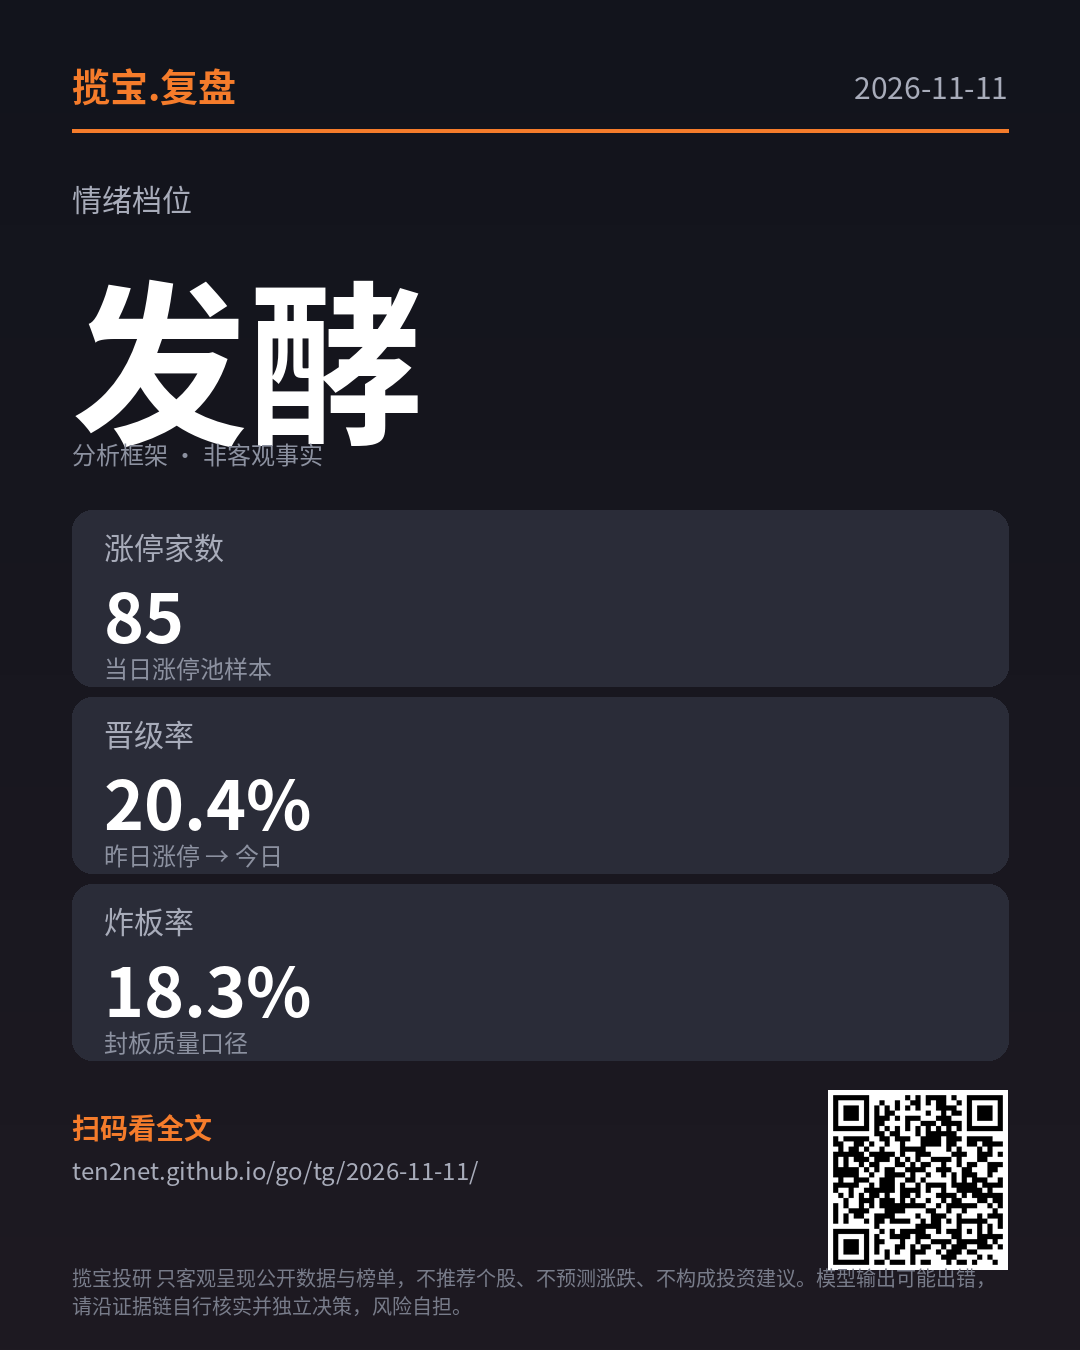
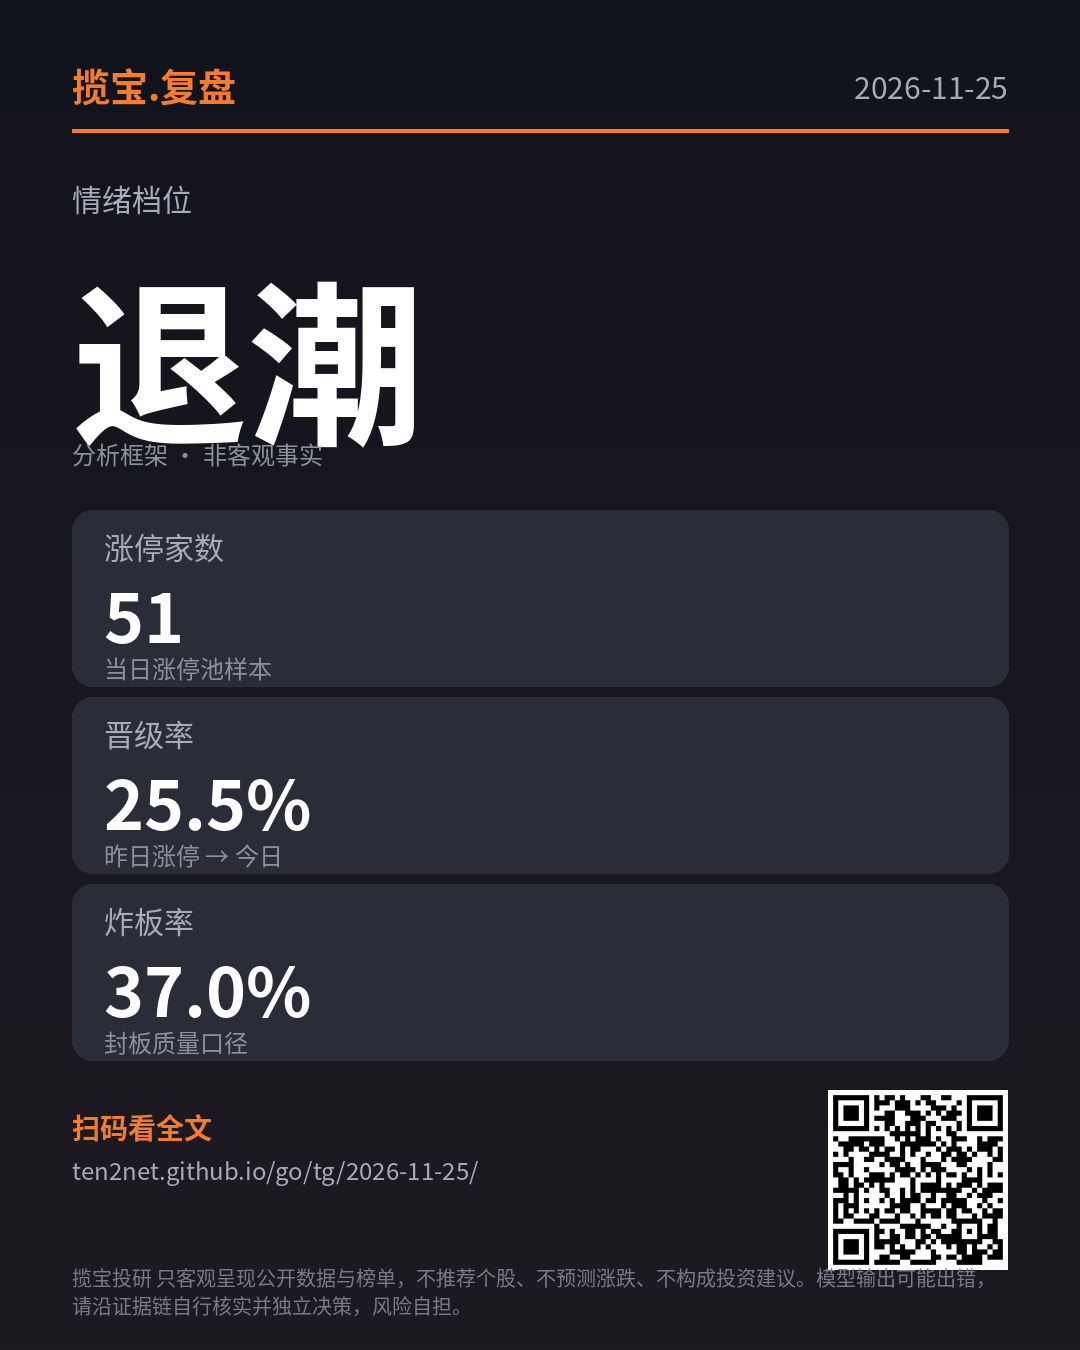
fix(wechat): 明日验证条件中文化并修正段落左对齐
- grounding.py: 生成 focus_md 时用 METRICS 中文 label，不再暴露英文 metric key
- wechat_render.py: 渲染层 _localize_metrics 兜底把历史 focus_md 的英文 key 换中文；
  _verification/_stance_checklist 统一用 METRICS 映射并去掉英文括号；
  S_P/S_LINE 显式 text-align:left 保证微信内左对齐
- 补 2026-11-25 情绪卡片（横版/竖版）并更新 latest
- tests: 更新英文 key 断言，新增历史英文 metric 本地化测试

diff --git a/review_agent/wechat_render.py b/review_agent/wechat_render.py
@@ -39,13 +39,13 @@ S_LEAD_TITLE = "margin:0 0 8px;font-size:17px;font-weight:bold;color:#f0d78c;"
 S_LEAD_SUB = "margin:0;font-size:13px;color:#9aa4b2;line-height:1.6;"
 S_H = ("margin:22px 0 10px;padding-left:10px;font-size:16px;font-weight:bold;color:#1d2129;"
        "border-left:4px solid #c9a227;line-height:1.4;")
-S_P = "margin:0 0 12px;font-size:15px;color:#1d2129;line-height:1.75;"
+S_P = "margin:0 0 12px;font-size:15px;color:#1d2129;line-height:1.75;text-align:left;"
 S_MUTED = "margin:0 0 12px;font-size:13px;color:#86909c;line-height:1.7;"
 S_CARD = "margin:0 0 8px;padding:10px 14px;background:#f7f8fa;border-radius:8px;"
 S_CARD_K = "margin:0;font-size:12px;color:#86909c;"
 S_CARD_V = "margin:4px 0;font-size:19px;font-weight:bold;color:#1d2129;"
 S_CARD_S = "margin:0;font-size:12px;color:#86909c;"
-S_LINE = "margin:0 0 6px;font-size:14px;color:#1d2129;line-height:1.7;"
+S_LINE = "margin:0 0 6px;font-size:14px;color:#1d2129;line-height:1.7;text-align:left;"
 S_GAP = "margin:0 0 12px;font-size:13px;color:#b0b8c4;"
 S_RULE = ("margin:26px 0 10px;border:none;border-top:1px dashed #e5e6eb;")
 # 结尾「阅读原文」醒目引导块：浅橙底 + 左侧橙色粗边，微信白名单内的内联样式
@@ -235,6 +235,24 @@ def _event_lines(payload: dict, limit: int = 10) -> list[str]:
     return lines
 
 
+def _localize_metrics(text: str) -> str:
+    """把正文里写死的英文指标 key 换成中文名（渲染层兜底）。
+
+    历史 focus_md 由早期 grounding 生成，里面是 ``money_effect_median``
+    这类英文 key；这里统一替换成 METRICS 里的中文 label，避免读者看到英文。
+    按 key 长度倒序替换，防止短 key 先命中干扰长 key。
+    """
+    try:
+        from duanxian.verification import METRICS
+        mapping = {m.key: m.label for m in METRICS}
+    except Exception:  # noqa: BLE001  指标映射是增强项，失败不影响发布
+        return text
+    for key in sorted(mapping, key=len, reverse=True):
+        if key in text:
+            text = text.replace(key, mapping[key])
+    return text
+
+
 def _blocks_to_html(md_text: str) -> list[str]:
     """_text_to_md 风格的块 → 微信段落/小标题。与博客 _md_blocks 同规则。"""
     from .blog_publish import _text_to_md  # 复用博客的块切分约定
@@ -359,11 +377,8 @@ def _stance_checklist(payload: dict) -> str:
     valid = [it for it in items if isinstance(it, dict) and it.get("metric")]
     if not valid:
         return ""
-    name_map = {
-        "limit_up_count": "涨停家数", "promotion_1to2": "1进2晋级率",
-        "money_effect_median": "昨日涨停样本中位表现", "broken_rate": "炸板率",
-        "market_limit_down": "跌停家数", "highest_board": "最高连板高度",
-    }
+    from duanxian.verification import METRICS
+    name_map = {m.key: m.label for m in METRICS}
     rows = []
     for it in valid:
         label = name_map.get(str(it.get("metric")), str(it.get("metric")))
@@ -439,21 +454,15 @@ def _verification(payload: dict) -> str:
     valid = [it for it in items if isinstance(it, dict) and it.get("metric")]
     if not valid:
         return ""
-    name_map = {
-        "limit_up_count": "涨停家数",
-        "promotion_1to2": "1进2晋级率",
-        "money_effect_median": "昨日涨停样本中位表现",
-        "broken_rate": "炸板率",
-        "market_limit_down": "跌停家数",
-        "highest_board": "最高连板高度",
-    }
+    from duanxian.verification import METRICS
+    name_map = {m.key: m.label for m in METRICS}
     out = [f'<p style="{S_H}">明日验证条件：三个信号看情绪能否修复</p>']
     for it in valid:
         metric = str(it.get("metric"))
         label = name_map.get(metric, metric)
         direction = str(it.get("direction") or "").strip()
         reason = str(it.get("reason") or "").strip()
-        line = f"<strong>{_esc(label)}</strong>（{_esc(metric)}）"
+        line = f"<strong>{_esc(label)}</strong>"  # 只显示中文名，不暴露英文 key
         if direction:
             line += f"：看{_esc(direction)}"
         if reason:
@@ -560,7 +569,7 @@ def article_html(payload: dict, date: str, blog_url: str) -> str:
     # 汇总研判（程序核对过的正文）——小标题带长尾词
     out.append(_rule())
     out.append(_heading("情绪档位：为什么这样定档？"))
-    out.extend(_blocks_to_html(strip_citations(focus_body)) or [_p("该日没有汇总研判正文。")])
+    out.extend(_blocks_to_html(_localize_metrics(strip_citations(focus_body))) or [_p("该日没有汇总研判正文。")])
     # 观察清单（Seaway 式条件/动作表）+ 原有逐条验证条件说明
     checklist = _stance_checklist(payload)
     if checklist:

diff --git a/tests/test_wechat_publish.py b/tests/test_wechat_publish.py
@@ -183,8 +183,19 @@ class TestSeoRewrite:
         ]
         html = wr.article_html(p, DATE, "")
         assert "明日验证条件" in html
-        assert "涨停家数" in html and "limit_up_count" in html
+        # 条件名称只显示中文，不暴露英文 metric key
+        assert "涨停家数" in html and "limit_up_count" not in html
         assert "不是涨跌预测" in html
+
+    def test_legacy_english_metric_localized(self):
+        """历史 focus_md 里写死的英文 metric key，渲染时兜底换成中文。"""
+        p = payload()
+        p["focus_md"] = ("## 明日验证条件\n\n"
+                         "money_effect_median 预期上升：证据。\n\n"
+                         "deep_loss_count 预期下降：证据。")
+        html = wr.article_html(p, DATE, "")
+        assert "赚钱效应中位数" in html and "money_effect_median" not in html
+        assert "跌超5%家数" in html and "deep_loss_count" not in html
 
     def test_interaction_question_and_topic_tags(self):
         html = wr.article_html(payload(), DATE, "")

diff --git a/review_agent/grounding.py b/review_agent/grounding.py
@@ -482,8 +482,12 @@ def render_markdown(summary, records):
     for direction in summary["focus_directions"]:
         lines += ["## " + direction["direction"], render(direction["logic"]), "风险：" + render(direction["risk"])]
     lines += ["## 风险提示", *[render(f) for f in summary["risk_alerts"]], "## 明日验证条件"]
+    # 指标名用中文标签，不暴露英文 key（与 duanxian.schemas 的口径一致）。
+    from duanxian.verification import METRICS
+    metric_label = {m.key: m.label for m in METRICS}
     for item in summary["verification_items"]:
-        lines.append(item["metric"] + " 预期" + item["direction"] + "：" + render(item["reason"]))
+        name = metric_label.get(item["metric"], item["metric"])
+        lines.append(name + " 预期" + item["direction"] + "：" + render(item["reason"]))
     lines += ["## 本次输入依据", NOTE]
     for eid in dict.fromkeys(used):
         record = by_id[eid]
